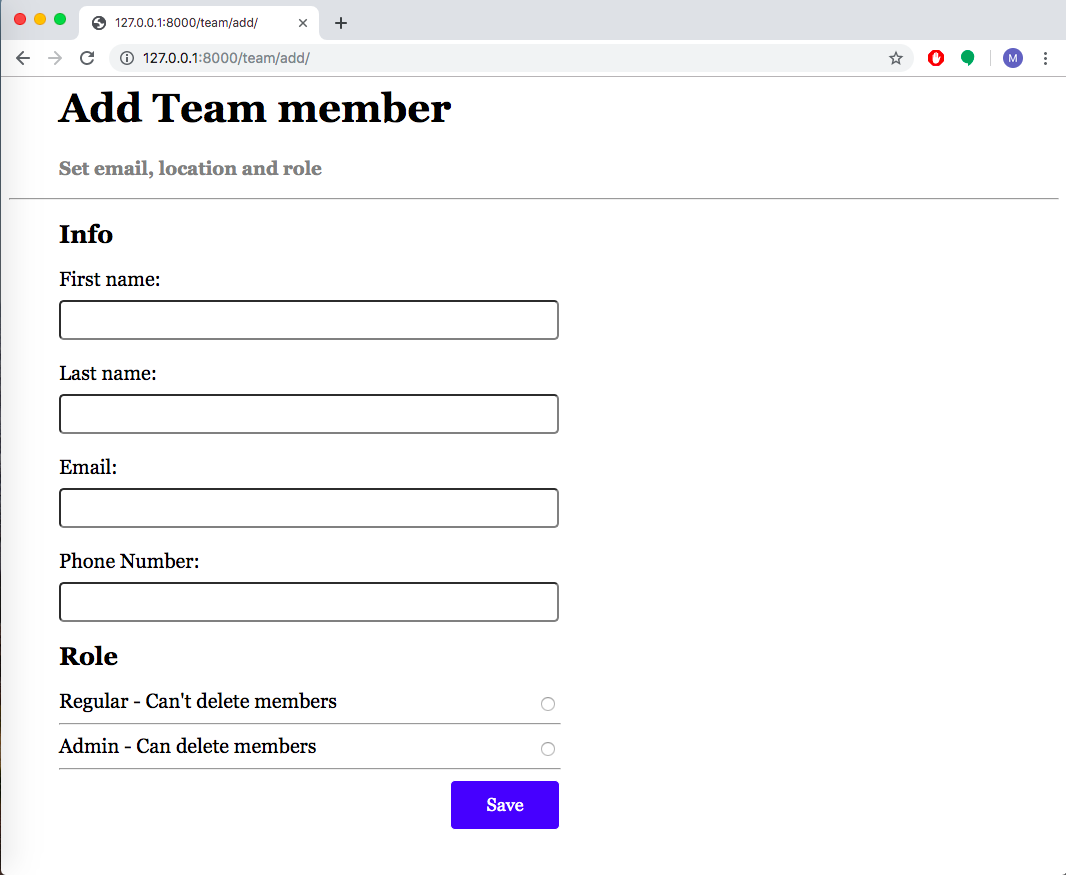
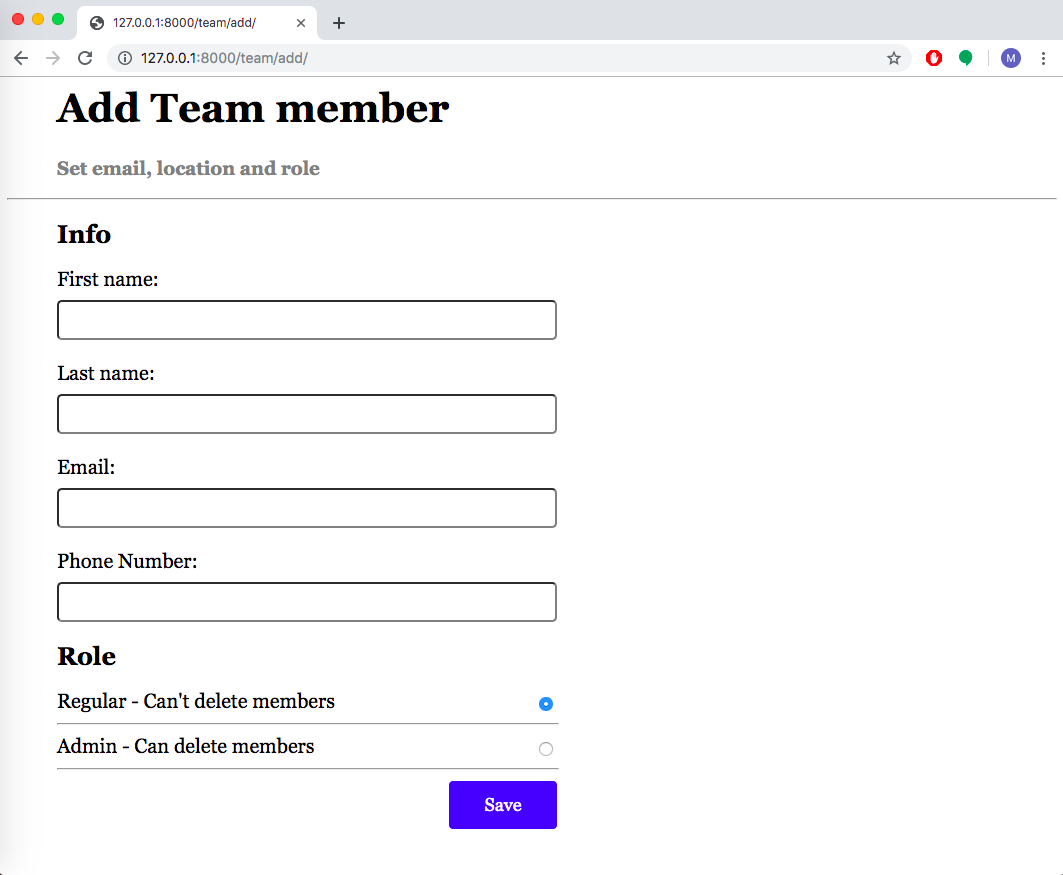
final project

diff --git a/team/templates/team/edit.html b/team/templates/team/edit.html
@@ -32,24 +32,24 @@
     <label for = "1">Regular - Can't delete members</label>
     <input type="radio" class = "regularRadio" name="admin_status" id="1" value="1">
     <br>
-    <hr width = "50%" align = "left">
+    <hr class = "roleUnderline" align = "left">
 
 
     <label for = "2">Admin - Can delete members</label>
     <input type="radio" class = "adminRadio" name="admin_status" id="2" value="2" checked = "checked">
     <br>
-    <hr width = "50%" align = "left">
+    <hr class = "roleUnderline" align = "left">
 
   {% else %}
   <label for = "1">Regular - Can't delete members</label>
   <input type="radio" class = "regularRadio" name="admin_status" id="1" value="1" checked = "checked">
   <br>
-  <hr width = "50%" align = "left">
+  <hr class = "roleUnderline" align = "left">
 
   <label for = "2">Admin - Can delete members</label>
   <input type="radio" class = "adminRadio" name="admin_status" id="2" value="2">
   <br>
-  <hr  align = "left">
+  <hr class = "roleUnderline" align = "left">
 
   {% endif %}
 
@@ -61,5 +61,3 @@
   {% csrf_token %}
   <input type="submit" class = "delete" value = "Delete">
 </form>
-
-{% if error_message %}<p class = "error"><strong>{{ error_message }}</strong></p>{% endif %}

diff --git a/team/templates/team/add.html b/team/templates/team/add.html
@@ -28,16 +28,15 @@
 
 
   <label for = "1">Regular - Can't delete members</label>
-  <input type="radio" class = "regularRadio" name="admin_status" id="1" value="1">
+  <input type="radio" class = "regularRadio" name="admin_status" id="1" value="1" checked = "checked">
   <br>
-  <hr width = "50%" align = "left">
+  <hr class = "roleUnderline" align = "left">
 
   <label for = "2">Admin - Can delete members</label>
     <input type="radio" class = "adminRadio" name="admin_status" id="2" value="2">
   <br>
-  <hr width = "50%" align = "left">
+  <hr class = "roleUnderline" align = "left">
   <input type="submit" class = "submit" value = "Save">
 
 
 </form>
-{% if error_message %}<p class = "error"><strong>{{ error_message }}</strong></p>{% endif %}

diff --git a/team/static/team/style.css b/team/static/team/style.css
@@ -110,9 +110,6 @@ input[type="text"] {
 
 }
 
-.error {
-  padding-left: 50px;
-  font-size: 25;
-  font-family: georgia;
-  margin-top: -15px;
+.roleUnderline {
+  width: 500px;
 }

diff --git a/team/views.py b/team/views.py
@@ -24,7 +24,6 @@ def add(request):
 
 #actually handles the data inputted in the form in the add viewpage
 def addEdit(request):
-    try:
         member = TeamMember()
         member.first_name = request.POST['first_name']
         member.last_name = request.POST['last_name']
@@ -34,11 +33,6 @@ def addEdit(request):
             member.admin_status = False
         else:
             member.admin_status = True
-    except(KeyError):
-        return render(request, 'team/add.html', {
-        'error_message': "You didn't select a role.",
-        })
-    else:
         member.save()
         return HttpResponseRedirect(reverse('team:index'))
 
@@ -50,23 +44,16 @@ class EditView(generic.DetailView):
 #actually handles the data inputted in the form in the member edit page
 def memberEdit(request, member_id):
     member = get_object_or_404(TeamMember, pk=member_id)
-    try:
-        member.first_name = request.POST['first_name']
-        member.last_name = request.POST['last_name']
-        member.email = request.POST['email']
-        member.phone_number = request.POST['phone_number']
-        if request.POST['admin_status'] == '1':
-            member.admin_status = False
-        else:
-            member.admin_status = True
-    except(KeyError):
-        return render(request, 'team/edit.html', {
-        'member': member,
-        'error_message': "You didn't select a role.",
-        })
+    member.first_name = request.POST['first_name']
+    member.last_name = request.POST['last_name']
+    member.email = request.POST['email']
+    member.phone_number = request.POST['phone_number']
+    if request.POST['admin_status'] == '1':
+        member.admin_status = False
     else:
-        member.save()
-        return HttpResponseRedirect(reverse('team:index'))
+        member.admin_status = True
+    member.save()
+    return HttpResponseRedirect(reverse('team:index'))
 
 def delete(request, member_id):
     member = get_object_or_404(TeamMember, pk=member_id)
